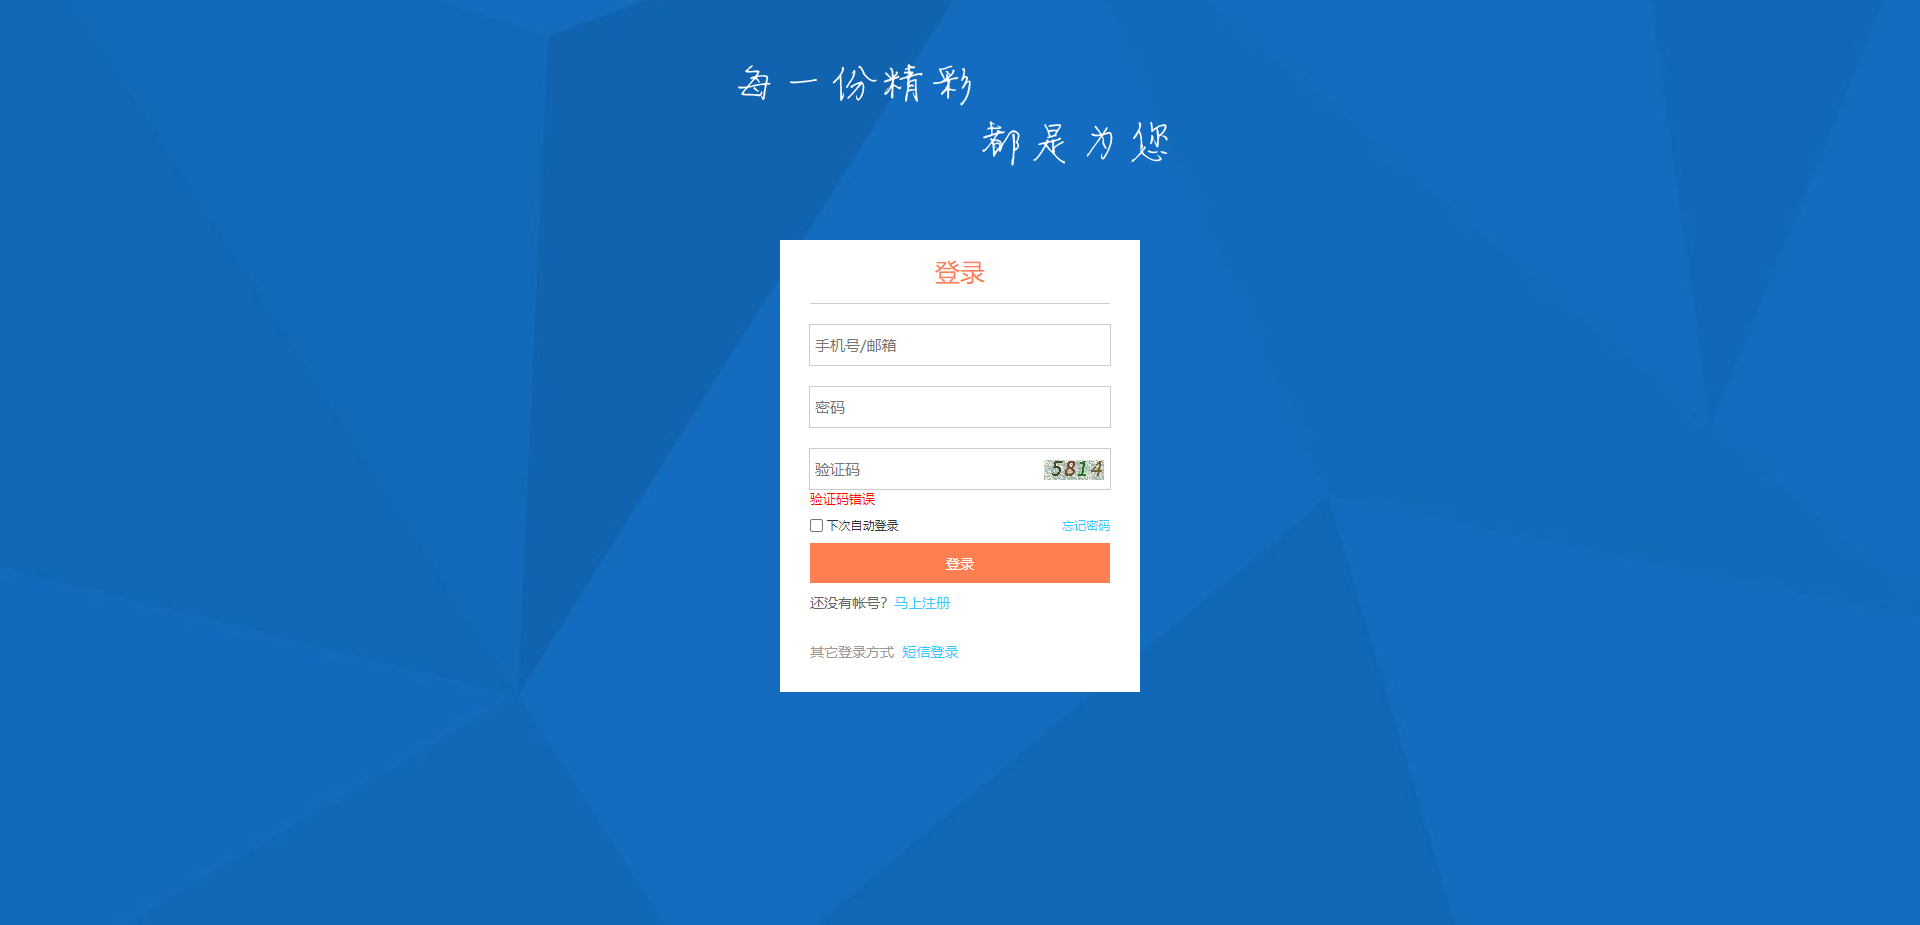
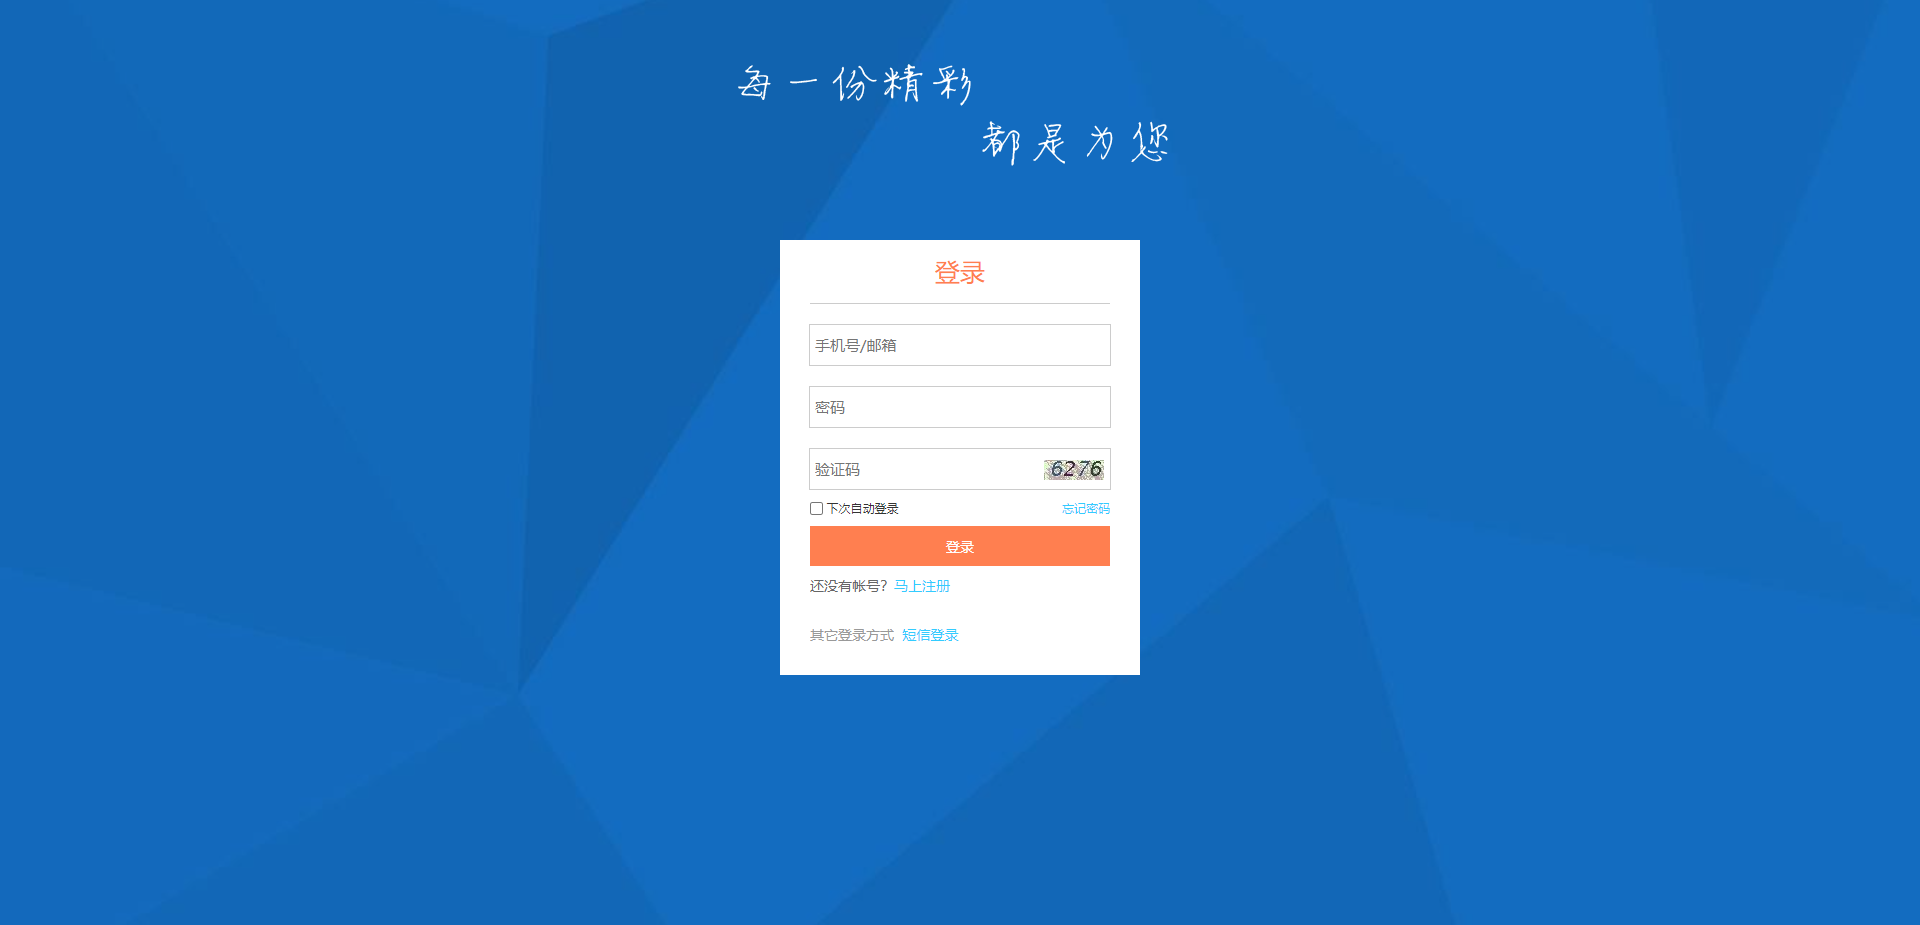
allure项目

Changed region(s): [[0.4062, 0.5146, 0.5938, 0.7568], [0.5312, 0.4843, 0.5938, 0.5146]]

diff --git a/testcase/test_zwfw_login.py b/testcase/test_zwfw_login.py
@@ -11,14 +11,18 @@ class Test_login:
     @classmethod
     def setup_class(cls):
         cls.driver = webdriver.Chrome()
-        cls.driver.get('http://www.pingcheng.gov.cn/page/admin_zwfw/')
-        cls.driver.find_element_by_css_selector('.login_btn').click()
-        cls.driver.implicitly_wait(10)
-        cls.driver.maximize_window()
+        # cls.driver.get('http://www.pingcheng.gov.cn/page/admin_zwfw/')
+        # cls.driver.find_element_by_css_selector('.login_btn').click()
+        # cls.driver.implicitly_wait(10)
+        # cls.driver.maximize_window()
         # cls.driver.save_screenshot("../share/1.png")
 
     @allure.feature('若验证码错误，可循环登录十次')
     def test_login_case01(self):
+        self.driver.get('http://www.pingcheng.gov.cn/page/admin_zwfw/')
+        self.driver.find_element_by_css_selector('.login_btn').click()
+        self.driver.implicitly_wait(10)
+        self.driver.maximize_window()
         for i in range(10):
             currdir = 'D:/Program Files/JetBrains/PyCharm Community Edition 2020.2/pytest_allure/share'
             page = Loginpage(self.driver)
